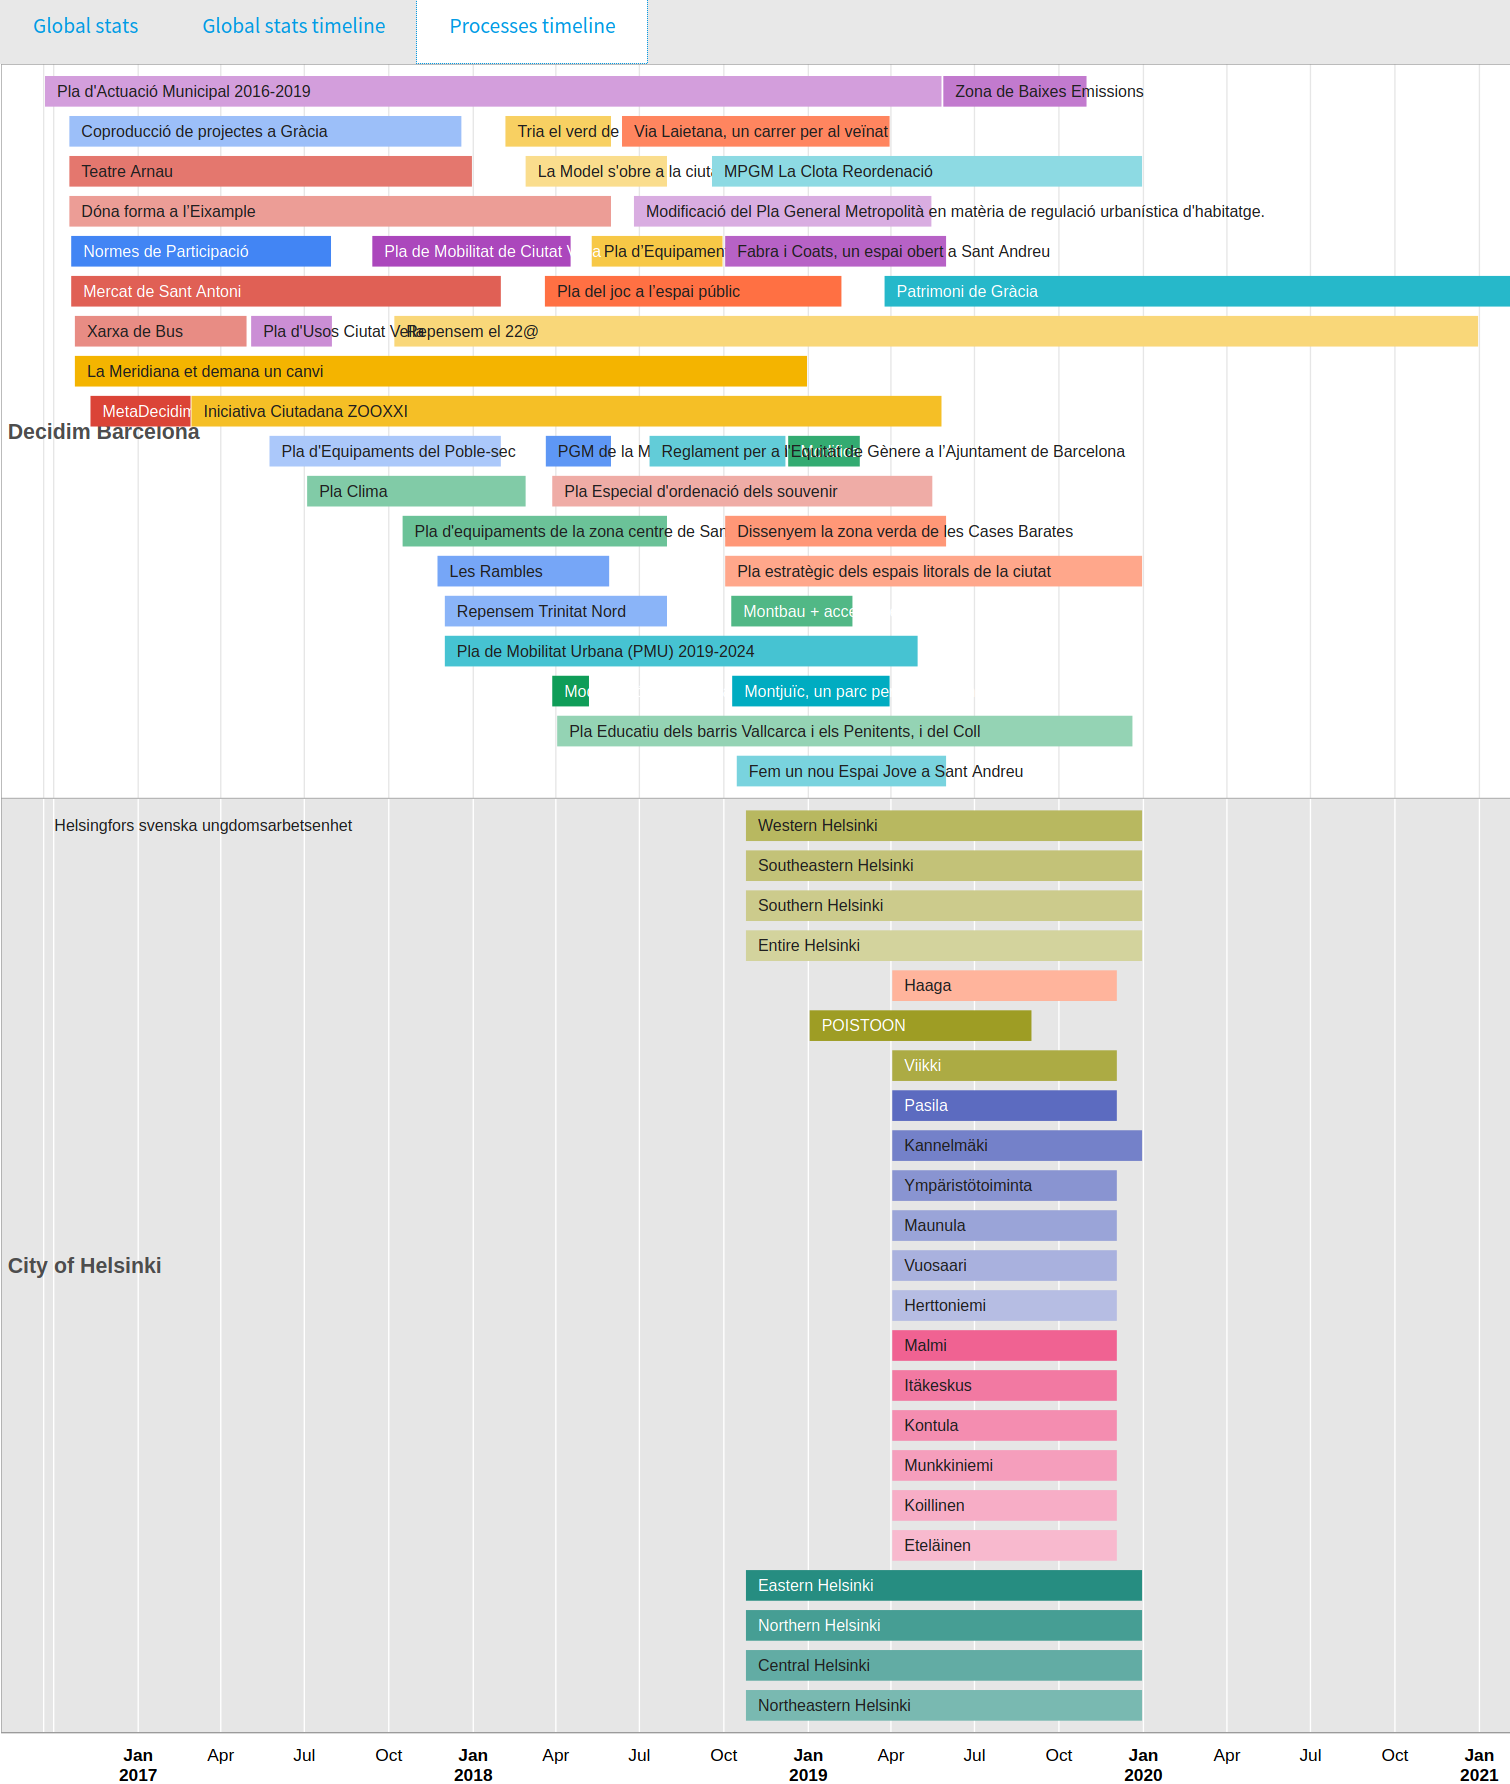
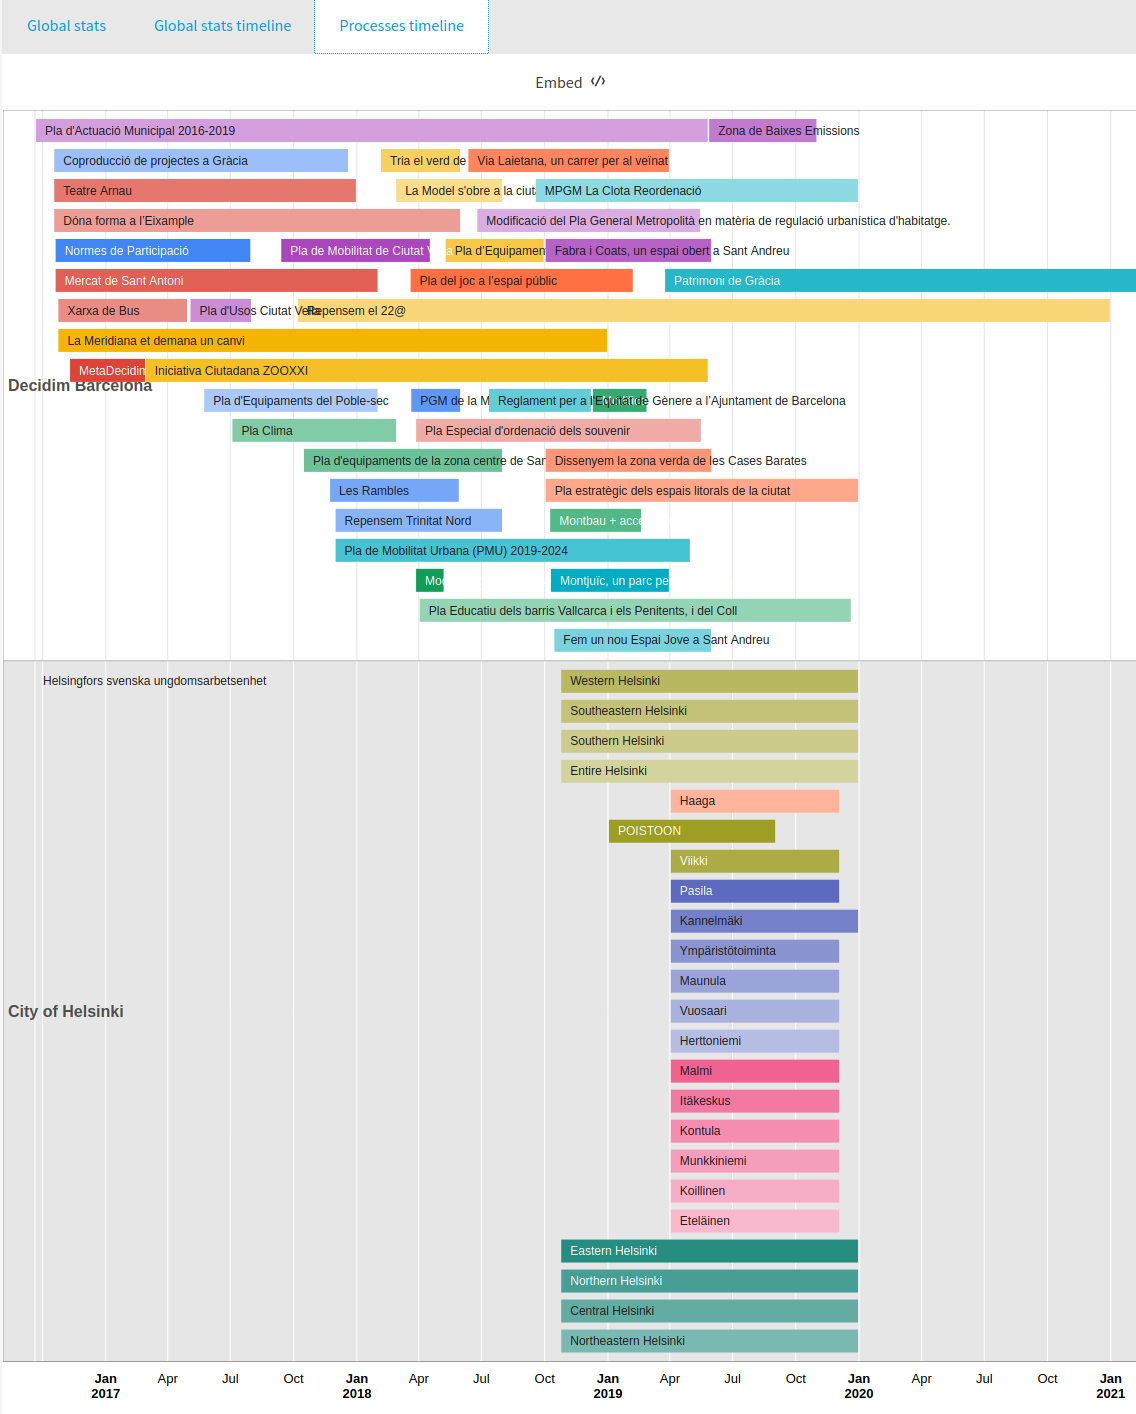
documentation & some fixes

diff --git a/app/helpers/decidim/comparative_stats/application_helper.rb b/app/helpers/decidim/comparative_stats/application_helper.rb
@@ -6,7 +6,7 @@ module Decidim
     #
     module ApplicationHelper
       def embed_modal_for(url)
-        embed_code = String.new(content_tag(:iframe, "", src: url, frameborder: 0, scrolling: "vertical"))
+        embed_code = String.new(content_tag(:iframe, "", src: url, frameborder: 0, width: "100%", height: "420", scrolling: "vertical"))
         render partial: "decidim/shared/embed_modal", locals: { js_embed_code: nil, embed_code: embed_code }
       end
     end

diff --git a/lib/decidim/comparative_stats/admin_engine.rb b/lib/decidim/comparative_stats/admin_engine.rb
@@ -41,7 +41,8 @@ module Decidim
                     decidim_admin_comparative_stats.endpoints_path,
                     icon_name: "graph",
                     position: 3.5,
-                    active: :inclusive
+                    active: is_active_link?(decidim_admin_comparative_stats.endpoints_path, :inclusive) ||
+                            is_active_link?(decidim_admin_comparative_stats.graphs_path, :inclusive)
         end
       end
     end

diff --git a/README.md b/README.md
@@ -11,9 +11,19 @@ generate graphs.
 
 ## Usage
 
-This module works by connecting to several Decidim API's. Just go to your `your-decidim-installation.org/admin/comparative_stats` and add endpoints to comparate. For instance, Decidim barcelona endpoint is https://www.decidim.barcelona/api
+This module works by connecting to several Decidim API's. Just go to your `your-decidim-installation.org/admin/comparative_stats` and add endpoints to compare. For instance, Decidim Barcelona endpoint is https://www.decidim.barcelona/api
 
-Then, just go to graphs and see some nice graphs!
+Then, go to graphs and see some nice graphs!
+
+Graphs can be embedded anywhere independently, just use the button `embed <>` and copy the code to any other place.
+
+The generated code will look something like:
+
+```html
+<iframe src="http://your_url/comparative_stats/widgets/global_stats.html" frameborder="0" width="100%" height="420" scrolling="vertical"></iframe> 
+```
+
+You might want to customize the `height` parameter to match your particular case.
 
 ![Barcelona/Helsinki comparison](example.png)
 *A real example comparing the participatory processes carried out by the cities of Barcelona and Helsinki in 2019*
@@ -32,6 +42,18 @@ And then execute:
 bundle
 bundle exec rails decidim_comparative_stats:install:migrations
 bundle exec rails db:migrate
+```
+
+## Configuration options
+
+API queries are cached 1 hour by default. This can be tuned by creating an initializer in your Decidim installation. For instance, create the file `config/initializers/comparative_stats.rb` with this content:
+
+```ruby
+# frozen_string_literal: true
+
+Decidim::ComparativeStats.configure do |config|
+  config.stats_cache_expiration_time = 2.hour
+end
 ```
 
 ## Contributing
